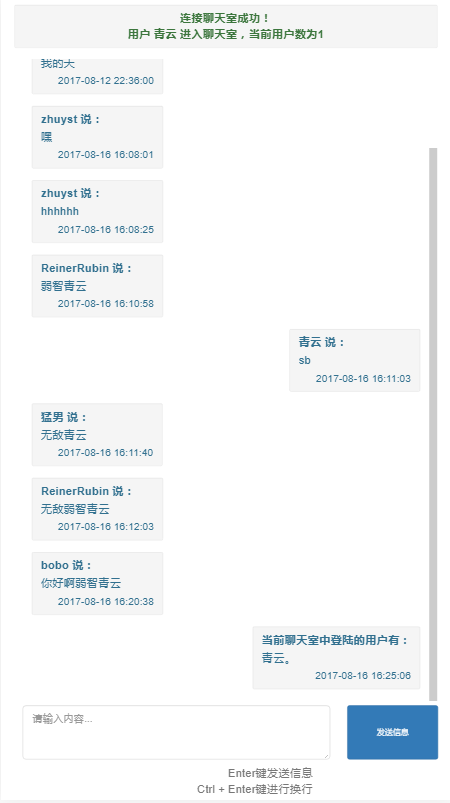
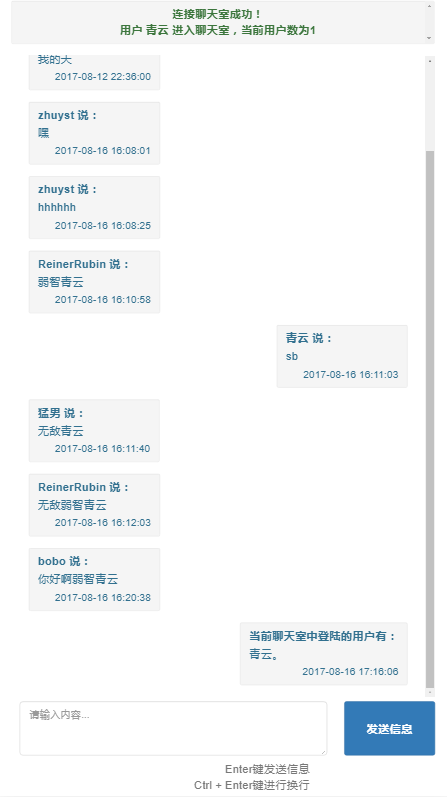
增加了onresize事件 对js进行了闭包

diff --git a/src/main/webapp/static/js/websocket.js b/src/main/webapp/static/js/websocket.js
@@ -1,6 +1,76 @@
 var echo_websocket;
 
 function connect(url) {
+
+    function writeMainMessage(data) {
+        var type = data.type;
+        var message = data.message;
+
+        var p;
+        if(type === "in"){
+            p = $("<p class='text-success'></p>").text(message);
+        }
+        else if(type === "out"){
+            p = $("<p class='text-danger'></p>").text(message);
+        }
+
+        var panel = $("div#main-message");
+        panel.append(p);
+        scrollRun(panel);
+    }
+
+    function writeMessage(data) {
+        var username = data.username;
+        var message = data.message;
+        var type = data.type;
+        var date = data.date;
+        date = timeStampToString(date);
+
+        var p_bold;
+        if(type === "my" || type === "other"){
+            p_bold = $("<p class='bolder' style='margin-bottom: 3px'></p>").append(username + "\t说：\t");
+        }
+        else if(type === "state"){
+            p_bold = $("<p class='bolder' style='margin-bottom: 3px'></p>").append(username + "\t");
+        }
+
+        var p_message = $("<p></p>").append(message);
+
+        var div1;
+        var p_date;
+        if(type === "my" || type === "state"){
+            p_date = $("<p class='text-right date'></p>").append(date);
+            div1 = $("<div class='pull-right well well-sm text-left text-info' style='max-width: 80%'></div>").append(p_bold,p_message,p_date);
+        }
+        else if(type === "other"){
+            p_date = $("<p class='text-left date'></p>").append(date);
+            div1 = $("<div class='pull-left well well-sm text-left text-info' style='max-width: 80%'></div>").append(p_bold,p_message,p_date);
+        }
+
+        var div2 = $("<div class='col-sm-12'></div>").append(div1);
+
+        var panel = $("div#output");
+        panel.append(div2);
+        scrollRun(panel);
+    }
+
+    function scrollRun(panel) {
+        var beforeHeight = panel.scrollTop();
+        panel.scrollTop(beforeHeight + 10000);
+    }
+
+    function timeStampToString(time){
+        var datetime = new Date();
+        datetime.setTime(time);
+        var year = datetime.getFullYear();
+        var month = datetime.getMonth() + 1 < 10 ? "0" + (datetime.getMonth() + 1) : datetime.getMonth() + 1;
+        var date = datetime.getDate() < 10 ? "0" + datetime.getDate() : datetime.getDate();
+        var hour = datetime.getHours()< 10 ? "0" + datetime.getHours() : datetime.getHours();
+        var minute = datetime.getMinutes()< 10 ? "0" + datetime.getMinutes() : datetime.getMinutes();
+        var second = datetime.getSeconds()< 10 ? "0" + datetime.getSeconds() : datetime.getSeconds();
+        return year + "-" + month + "-" + date+" "+hour+":"+minute+":"+second;
+    }
+
     echo_websocket = new WebSocket(url);
     echo_websocket.onopen = function () {
         var data = {
@@ -42,73 +112,4 @@ function doSend() {
         echo_websocket.send($.trim(message));
     }
     textarea.val('');
-}
-
-function writeMainMessage(data) {
-    var type = data.type;
-    var message = data.message;
-
-    var p;
-    if(type === "in"){
-        p = $("<p class='text-success'></p>").text(message);
-    }
-    else if(type === "out"){
-        p = $("<p class='text-danger'></p>").text(message);
-    }
-
-    var panel = $("div#main-message");
-    panel.append(p);
-    scrollRun(panel);
-}
-
-function writeMessage(data) {
-    var username = data.username;
-    var message = data.message;
-    var type = data.type;
-    var date = data.date;
-    date = timeStampToString(date);
-
-    var p_bold;
-    if(type === "my" || type === "other"){
-        p_bold = $("<p class='bolder' style='margin-bottom: 3px'></p>").append(username + "\t说：\t");
-    }
-    else if(type === "state"){
-        p_bold = $("<p class='bolder' style='margin-bottom: 3px'></p>").append(username + "\t");
-    }
-
-    var p_message = $("<p></p>").append(message);
-
-    var div1;
-    var p_date;
-    if(type === "my" || type === "state"){
-        p_date = $("<p class='text-right date'></p>").append(date);
-        div1 = $("<div class='pull-right well well-sm text-left text-info' style='max-width: 80%'></div>").append(p_bold,p_message,p_date);
-    }
-    else if(type === "other"){
-        p_date = $("<p class='text-left date'></p>").append(date);
-        div1 = $("<div class='pull-left well well-sm text-left text-info' style='max-width: 80%'></div>").append(p_bold,p_message,p_date);
-    }
-
-    var div2 = $("<div class='col-sm-12'></div>").append(div1);
-
-    var panel = $("div#output");
-    panel.append(div2);
-    scrollRun(panel);
-}
-
-function scrollRun(panel) {
-    var beforeHeight = panel.scrollTop();
-    panel.scrollTop(beforeHeight + 10000);
-}
-
-function timeStampToString(time){
-    var datetime = new Date();
-    datetime.setTime(time);
-    var year = datetime.getFullYear();
-    var month = datetime.getMonth() + 1 < 10 ? "0" + (datetime.getMonth() + 1) : datetime.getMonth() + 1;
-    var date = datetime.getDate() < 10 ? "0" + datetime.getDate() : datetime.getDate();
-    var hour = datetime.getHours()< 10 ? "0" + datetime.getHours() : datetime.getHours();
-    var minute = datetime.getMinutes()< 10 ? "0" + datetime.getMinutes() : datetime.getMinutes();
-    var second = datetime.getSeconds()< 10 ? "0" + datetime.getSeconds() : datetime.getSeconds();
-    return year + "-" + month + "-" + date+" "+hour+":"+minute+":"+second;
 }

diff --git a/src/main/webapp/static/js/scrollheight.js b/src/main/webapp/static/js/scrollheight.js
@@ -1,14 +1,21 @@
-function setSendPanelHeight() {
-    var height = $("#message").outerHeight();
-    $("#send-button").css("height",height);
+function resize() {
+    function setSendPanelHeight() {
+        var height = $("#message").outerHeight();
+        $("#send-button").css("height",height);
+    }
+
+    function setMessagePanelHeight() {
+        var main = $("#main-message");
+        var mainTop = main.offset().top;
+        var mainHeight = main.outerHeight(true);
+        var sendTop = $("#send-panel").offset().top;
+        $("#output").css("height",sendTop - mainTop - mainHeight);
+    }
+
+    setSendPanelHeight();
+    setMessagePanelHeight();
 }
-function setMessagePanelHeight() {
-    var main = $("#main-message");
-    var mainTop = main.offset().top;
-    var mainHeight = main.outerHeight(true);
-    var sendTop = $("#send-panel").offset().top;
-    $("#output").css("height",sendTop - mainTop - mainHeight);
-}
+
 function setMainMessagePanelHeight() {
     var panel = $("#main-message");
     var height = panel.outerHeight();

diff --git a/src/main/webapp/static/css/style.css b/src/main/webapp/static/css/style.css
@@ -45,3 +45,8 @@ label{
     word-wrap: break-word;
     word-break: normal;
 }
+#send-button{
+    width: 100%;
+    font-size: 20px;
+    font-weight: bolder;
+}
